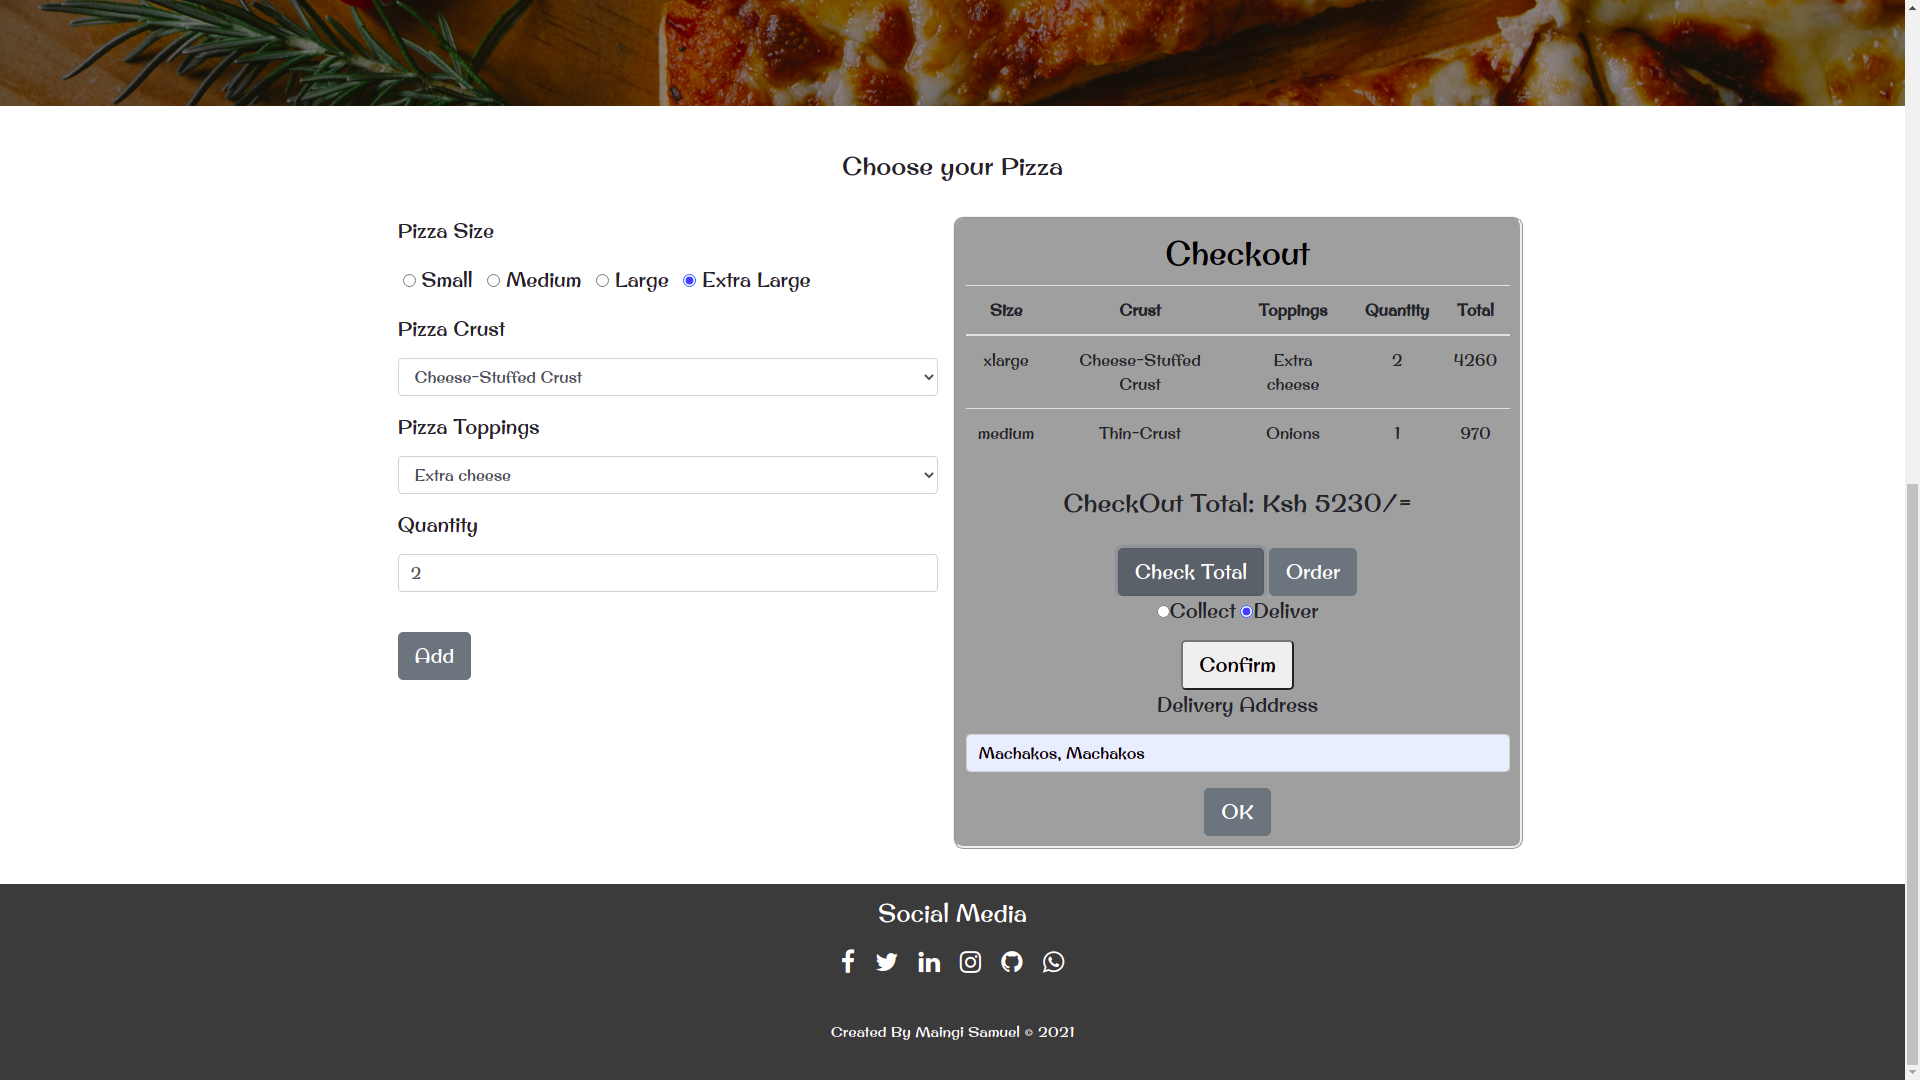
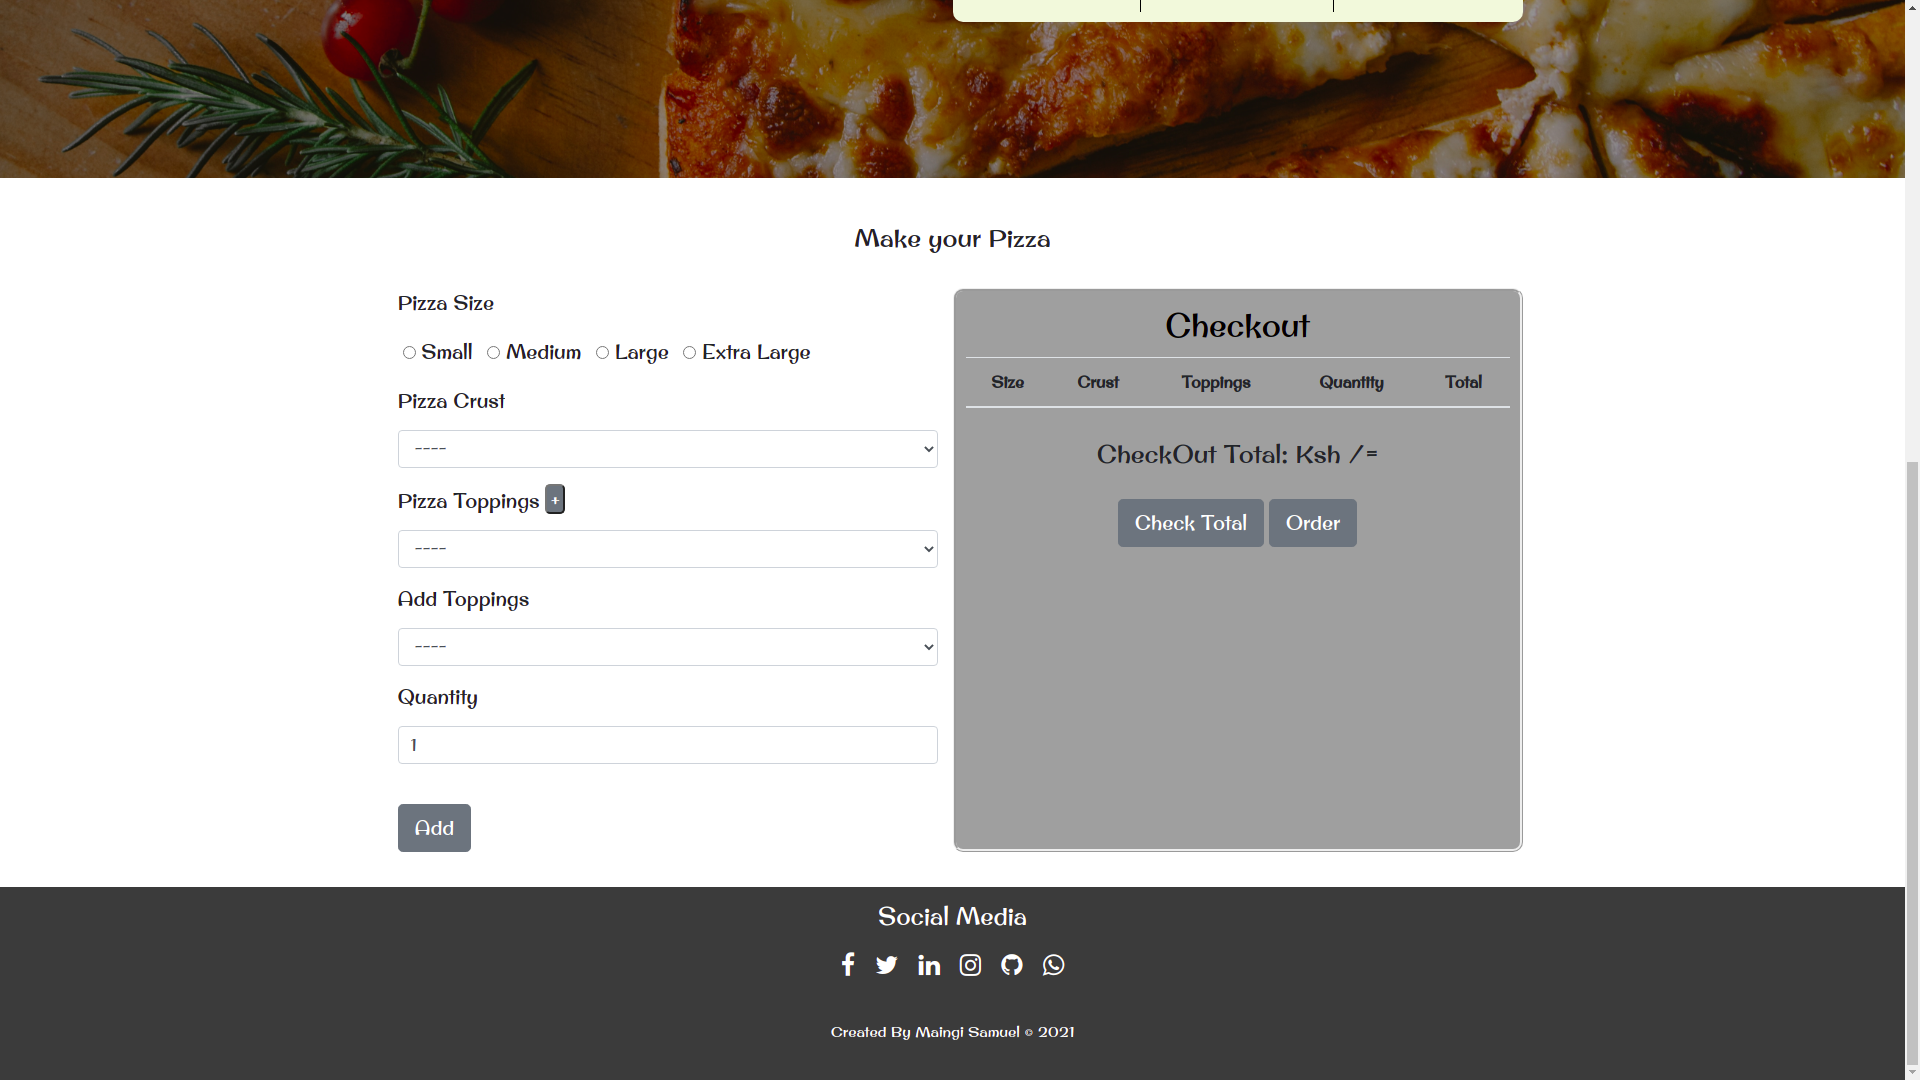
README BDD and image update Add Topping

diff --git a/css/styles.css b/css/styles.css
@@ -99,7 +99,7 @@ p{
   animation: glow 1s ease-in-out infinite alternate;
 }
 
-@-webkit-keyframes glow {
+@keyframes glow {
   from {
     text-shadow: 0 0 10px #fff, 0 0 20px #fff, 0 0 30px #e60073, 0 0 40px #e60073, 0 0 50px #e60073, 0 0 60px #e60073, 0 0 70px #e60073;
   }

diff --git a/README.md b/README.md
@@ -50,6 +50,9 @@ To access this project on your local files, you can clone it using these steps
 3. Displays an Error Message if Pizza Quantity input is Left Blank
    - INPUT: ""
    - OUTPUT: Value Should be greater than 1, Quanity Ranges from 1 to 100
+7. Add Toppings
+   - INPUT: Click + Button
+   - OUTPUT: New Input appears for User to Select
 4. Check Total Button on Click
    - INPUT: Click Check Total Button
    - OUTPUT: Computes Total Cost of all pizza and Outputs Total
